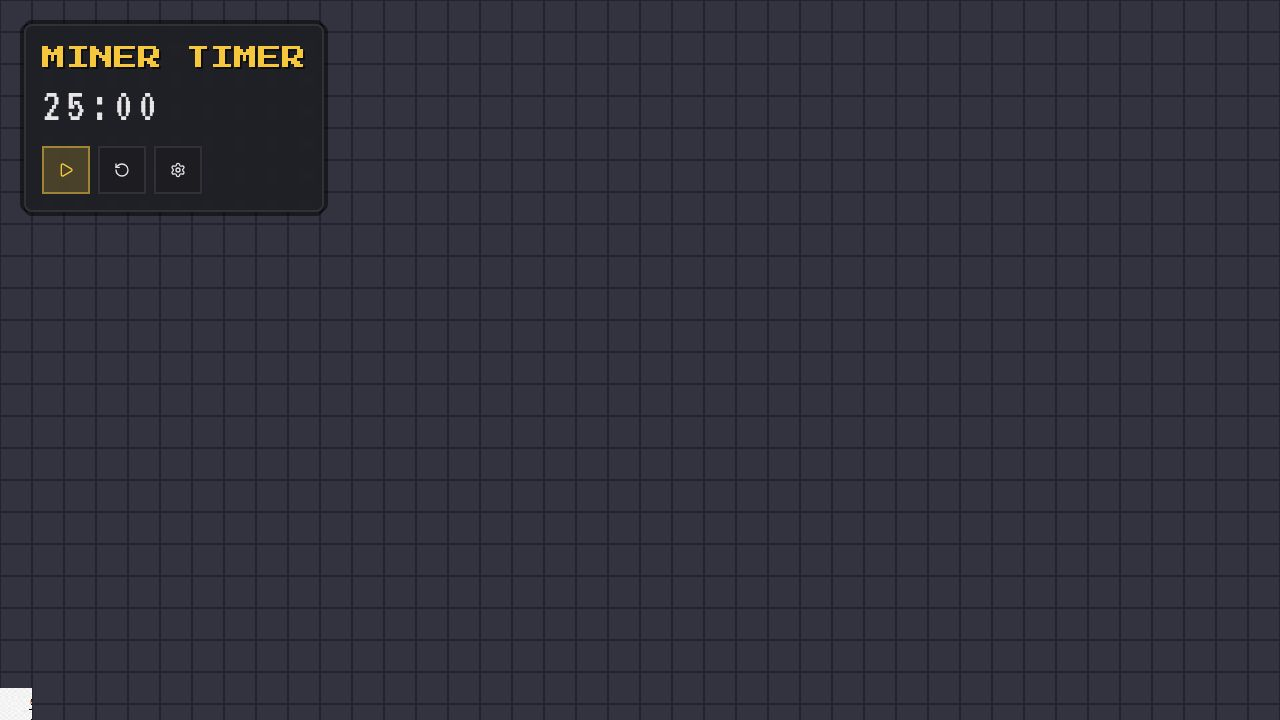
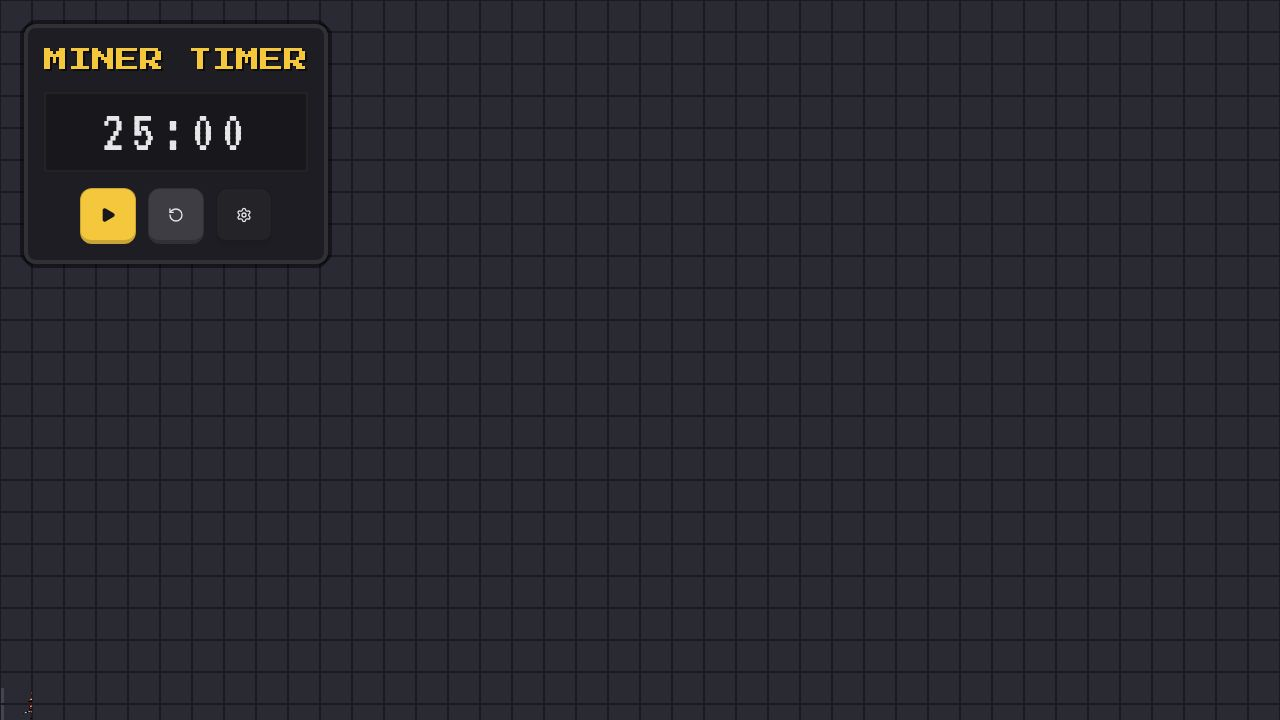
Published your App
Replit-Commit-Author: Deployment
Replit-Commit-Session-Id: 467f2ee1-7cf6-4da4-94f9-0f8e4f1210cf
Replit-Commit-Checkpoint-Type: full_checkpoint
Replit-Commit-Event-Id: 7ecc877b-8254-4c10-921b-b29f057e9f9c
Replit-Commit-Screenshot-Url: https://storage.googleapis.com/screenshot-production-us-central1/08b8162a-ddab-496f-bc59-79649e345541/467f2ee1-7cf6-4da4-94f9-0f8e4f1210cf/qvF0xS3
Replit-Commit-Deployment-Build-Id: 965ed104-e92e-46b9-ae99-f3641ab4f5c7
Replit-Helium-Checkpoint-Created: true

Changed region(s): [[0.0, 0.0306, 0.2812, 0.3972], [0.0, 0.9472, 0.0312, 1.0]]

diff --git a/client/src/pages/MinerTimer.tsx b/client/src/pages/MinerTimer.tsx
@@ -38,6 +38,11 @@ export default function MinerTimer() {
   // Miner State
   const [minerPos, setMinerPos] = useState({ x: 0, y: 0, facingRight: true });
   const [frame, setFrame] = useState(0);
+  
+  // Custom Sprite Settings
+  const [spriteFrames, setSpriteFrames] = useState(4);
+  const [spriteSpeed, setSpriteSpeed] = useState(150);
+  const [minerScale, setMinerScale] = useState(1);
 
   // Particles State ref (for performance)
   const particlesRef = useRef<Particle[]>([]);
@@ -185,9 +190,9 @@ export default function MinerTimer() {
         const deltaTime = (time - lastTime) / 1000;
         setTimeLeft((prev) => Math.max(0, prev - deltaTime));
         
-        // Update Sprite Frame (every 150ms)
-        if (Math.floor(time / 150) % 4 !== frame) {
-          setFrame(Math.floor(time / 150) % 4);
+        // Update Sprite Frame
+        if (Math.floor(time / spriteSpeed) % spriteFrames !== frame) {
+          setFrame(Math.floor(time / spriteSpeed) % spriteFrames);
         }
       } else if (timeLeft <= 0 && isActive) {
         setIsActive(false);
@@ -298,6 +303,43 @@ export default function MinerTimer() {
                       className="py-4"
                     />
                   </div>
+                  
+                  <div className="space-y-4 pt-4 border-t border-border">
+                    <Label className="text-sm font-bold text-muted-foreground">SPRITE SETTINGS</Label>
+                    
+                    <div className="space-y-2">
+                      <Label>Frame Count: {spriteFrames}</Label>
+                      <Slider 
+                        value={[spriteFrames]} 
+                        min={1} 
+                        max={16} 
+                        step={1}
+                        onValueChange={(vals) => setSpriteFrames(vals[0])}
+                      />
+                    </div>
+
+                    <div className="space-y-2">
+                      <Label>Animation Speed: {spriteSpeed}ms</Label>
+                      <Slider 
+                        value={[spriteSpeed]} 
+                        min={50} 
+                        max={500} 
+                        step={10}
+                        onValueChange={(vals) => setSpriteSpeed(vals[0])}
+                      />
+                    </div>
+
+                    <div className="space-y-2">
+                      <Label>Miner Scale: {minerScale}x</Label>
+                      <Slider 
+                        value={[minerScale]} 
+                        min={0.5} 
+                        max={3} 
+                        step={0.1}
+                        onValueChange={(vals) => setMinerScale(vals[0])}
+                      />
+                    </div>
+                  </div>
                 </div>
               </DialogContent>
             </Dialog>
@@ -329,9 +371,9 @@ export default function MinerTimer() {
         <div 
           className="absolute z-20 pointer-events-none transition-transform duration-100 will-change-transform"
           style={{
-            width: `${MINER_SIZE}px`,
-            height: `${MINER_SIZE}px`,
-            transform: `translate(${minerPos.x}px, ${minerPos.y}px) scaleX(${minerPos.facingRight ? 1 : -1})`,
+            width: `${MINER_SIZE * minerScale}px`,
+            height: `${MINER_SIZE * minerScale}px`,
+            transform: `translate(${minerPos.x - (MINER_SIZE * (minerScale - 1)) / 2}px, ${minerPos.y - (MINER_SIZE * (minerScale - 1))}px) scaleX(${minerPos.facingRight ? 1 : -1})`,
             imageRendering: 'pixelated'
           }}
         >
@@ -341,7 +383,7 @@ export default function MinerTimer() {
               width: '100%',
               height: '100%',
               backgroundImage: `url(${minerSprite})`,
-              backgroundSize: '400% 100%', // 4 frames, 1 row
+              backgroundSize: `${spriteFrames * 100}% 100%`,
               backgroundPosition: `-${frame * 100}% 0%`,
             }}
           />
